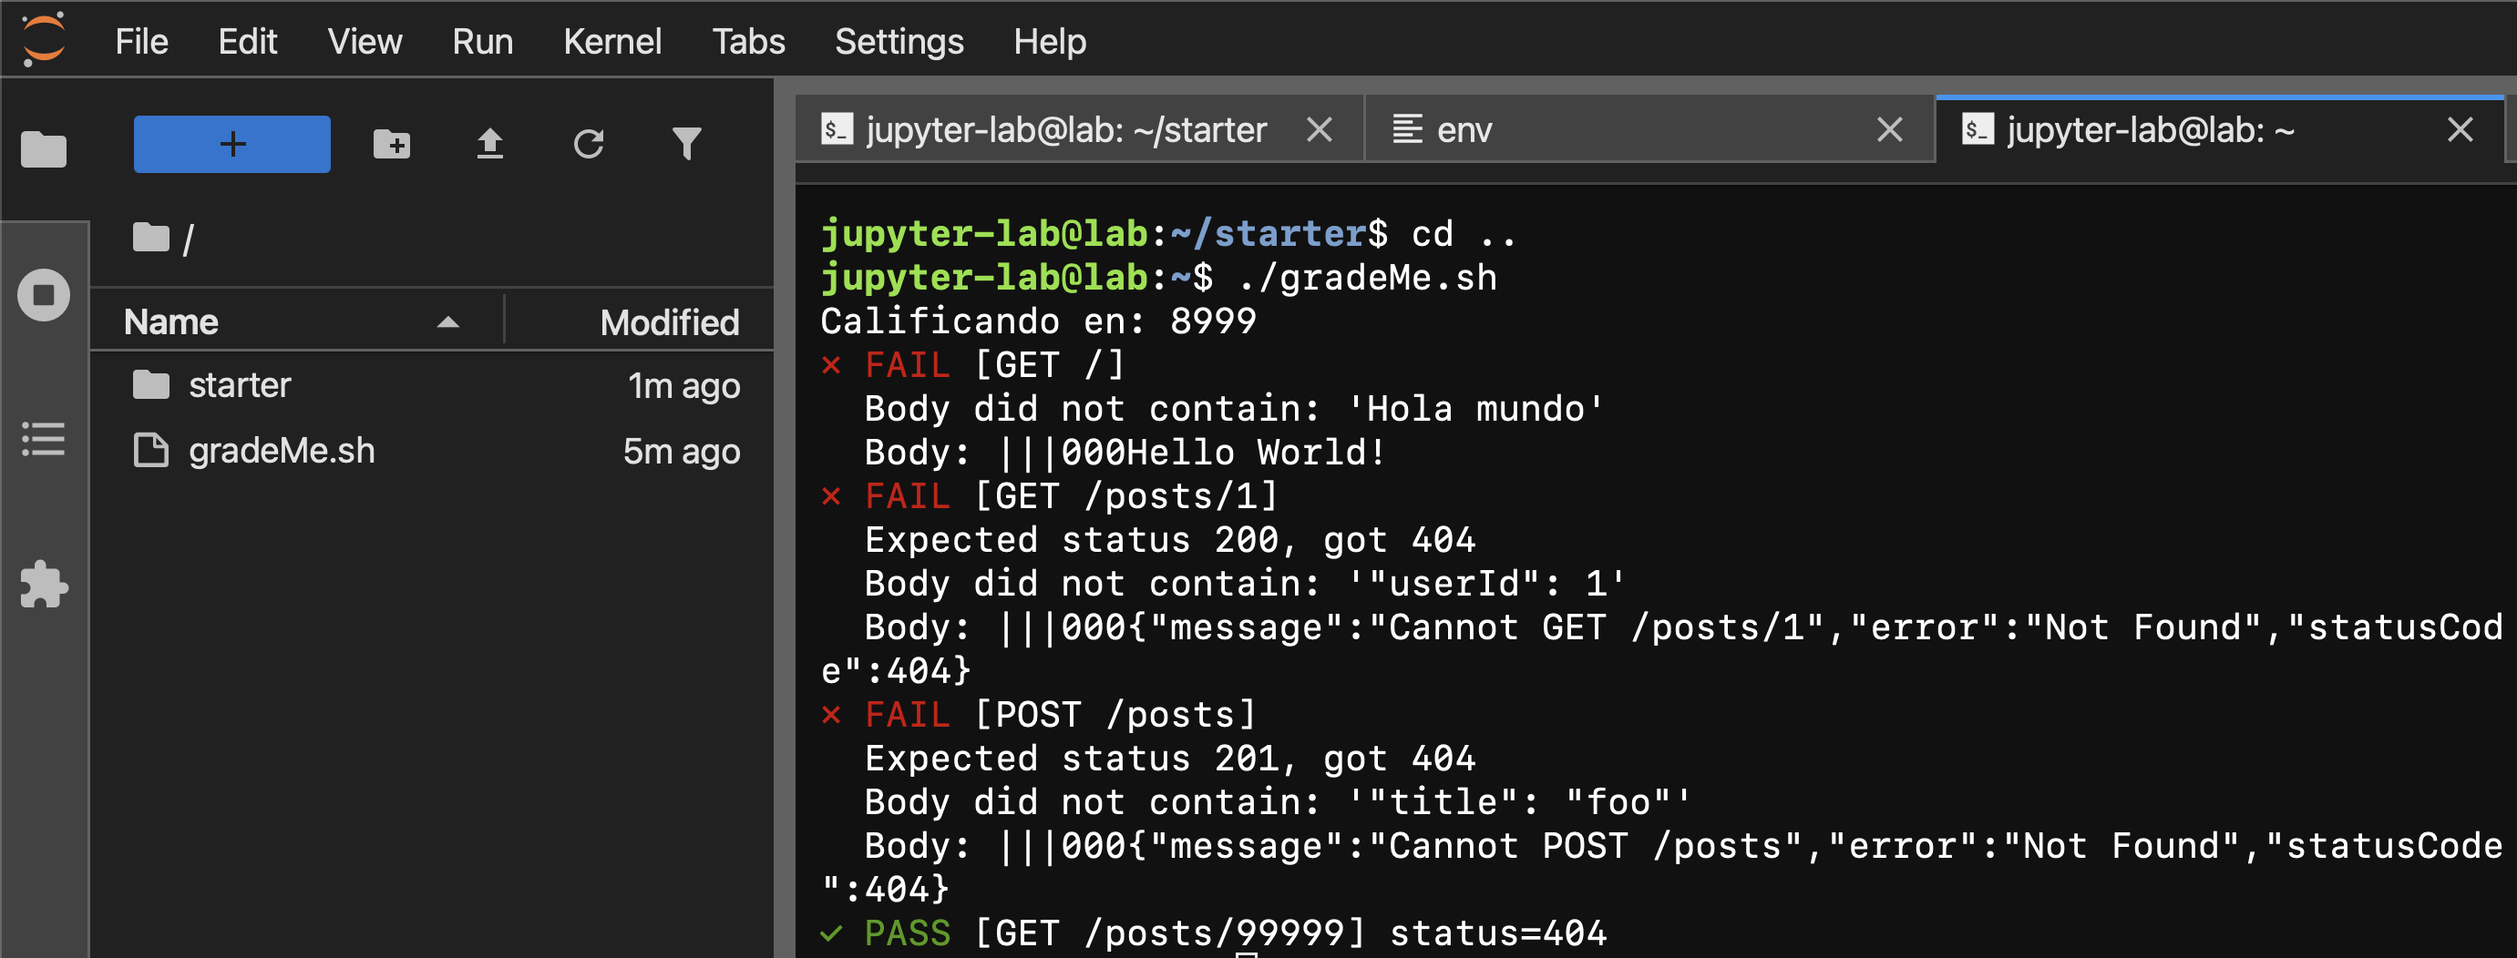
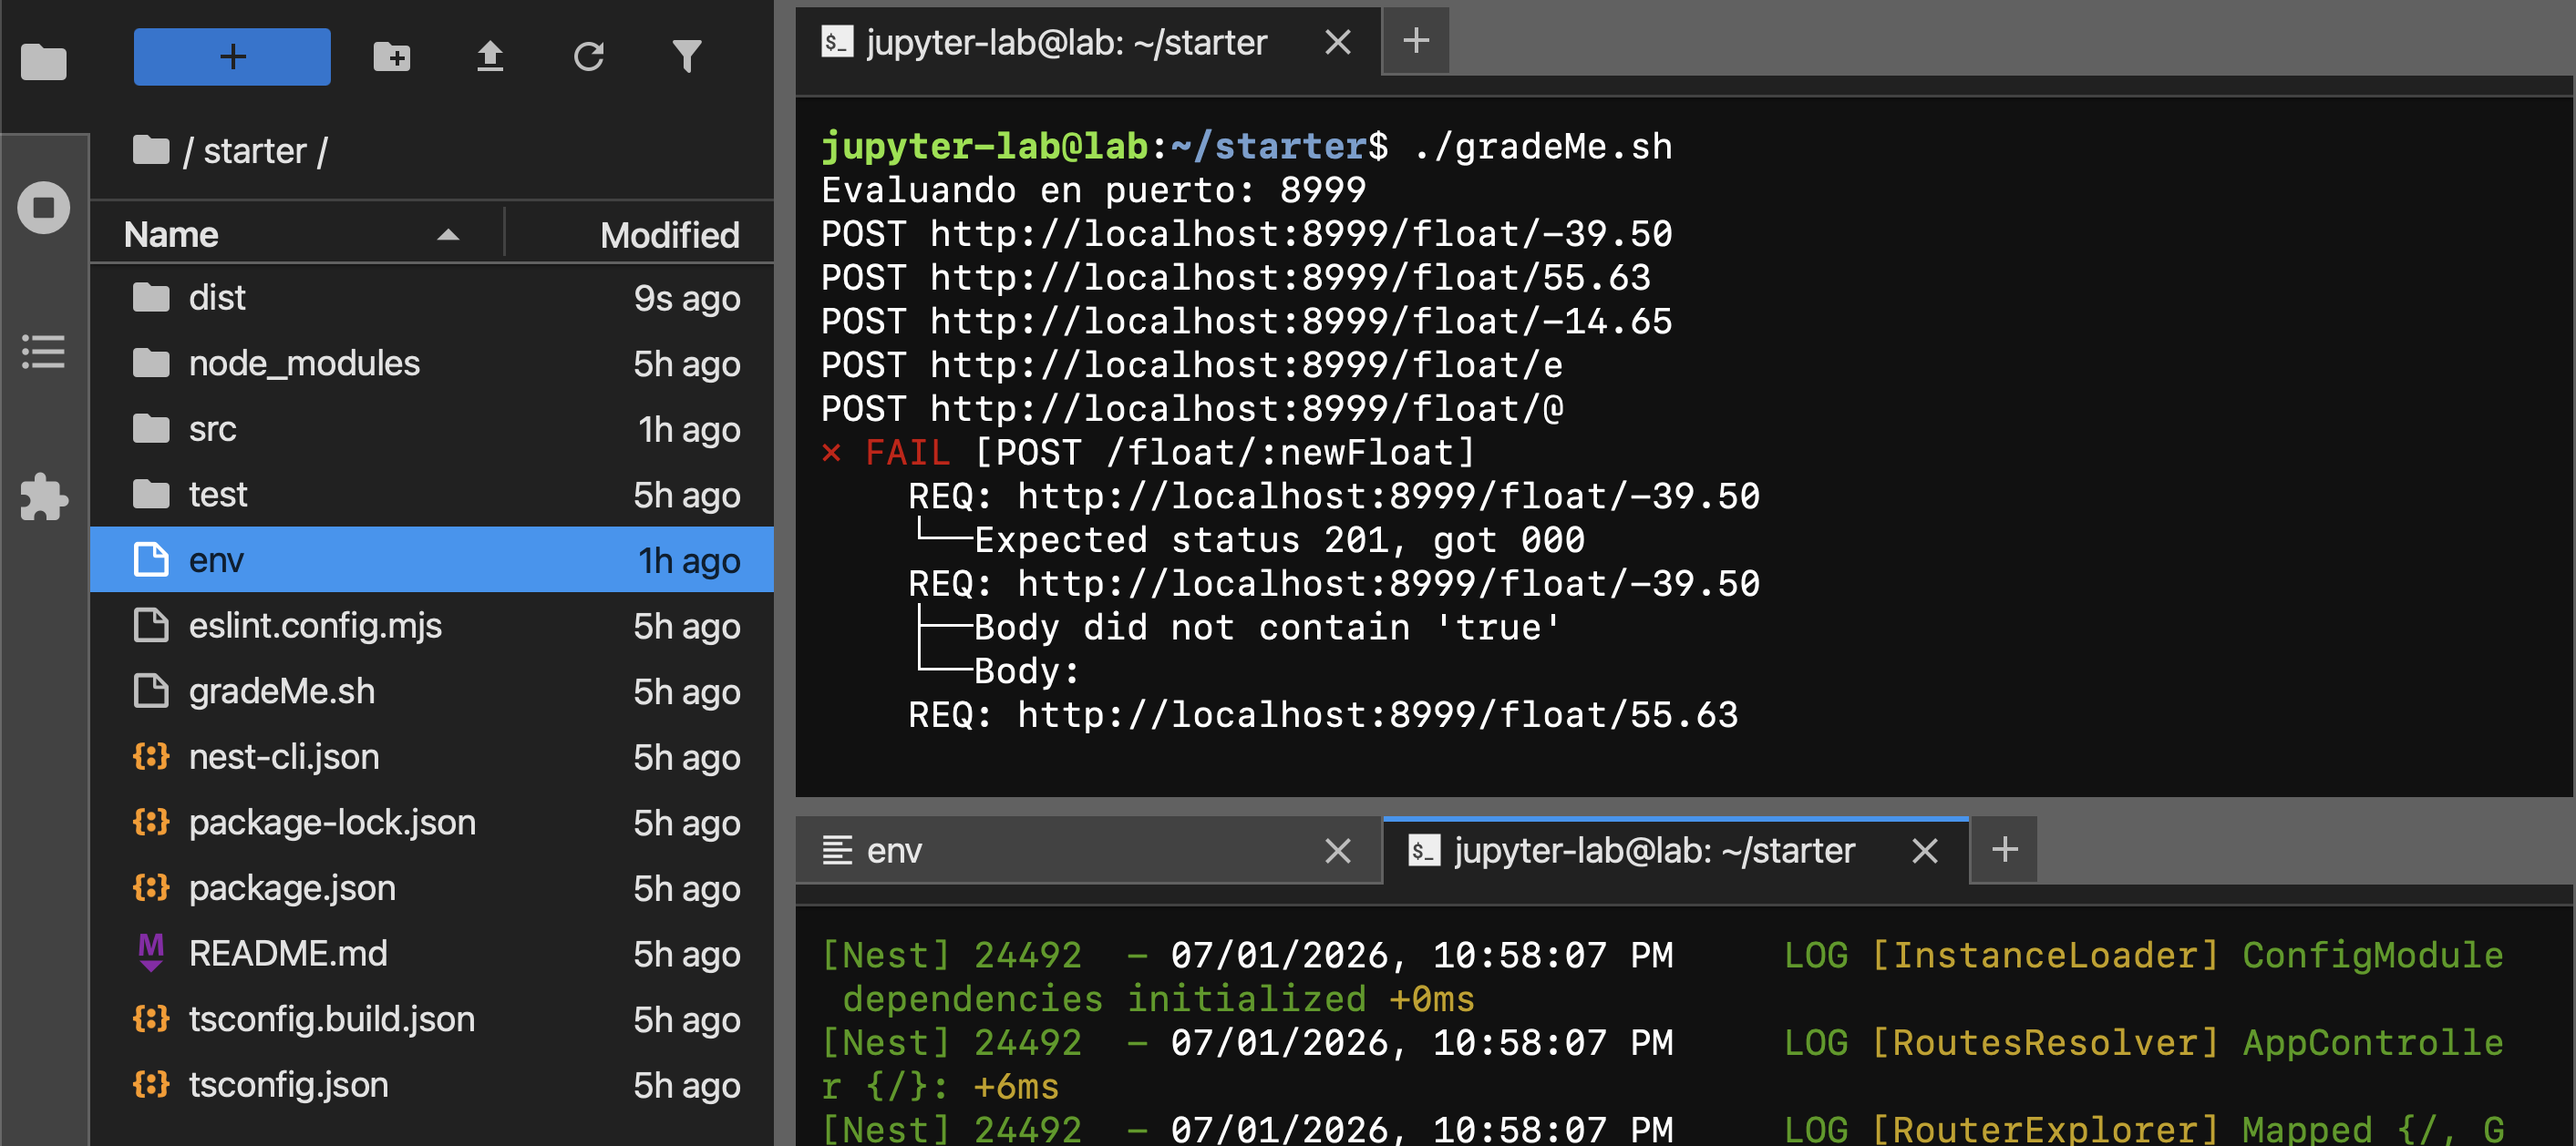
update grademe

diff --git a/08-exam/08-exam.md b/08-exam/08-exam.md
@@ -286,7 +286,7 @@ npm run start:dev
 <!-- end_slide -->
 
 ## Jupyterhub
-4. En la ruta ~ correr el comando:
+4. En la ruta ~/starter correr el comando:
 ```bash
 ./gradeMe.sh
 ```
